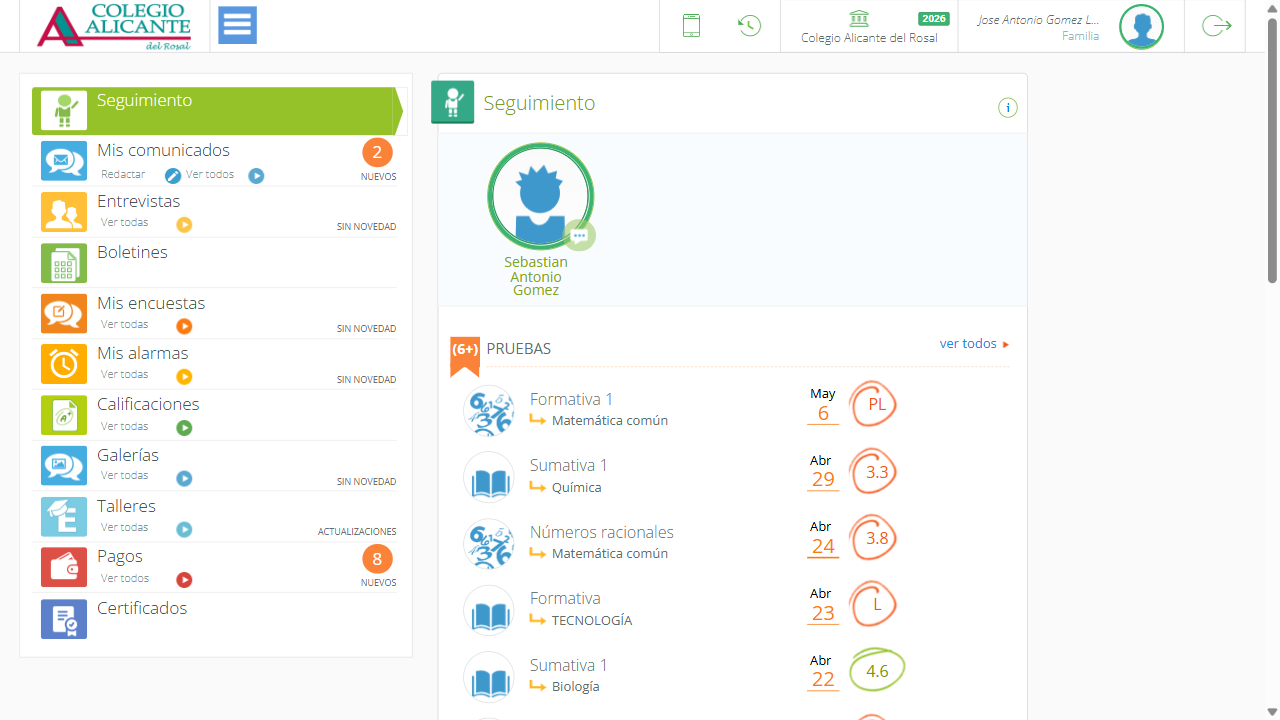
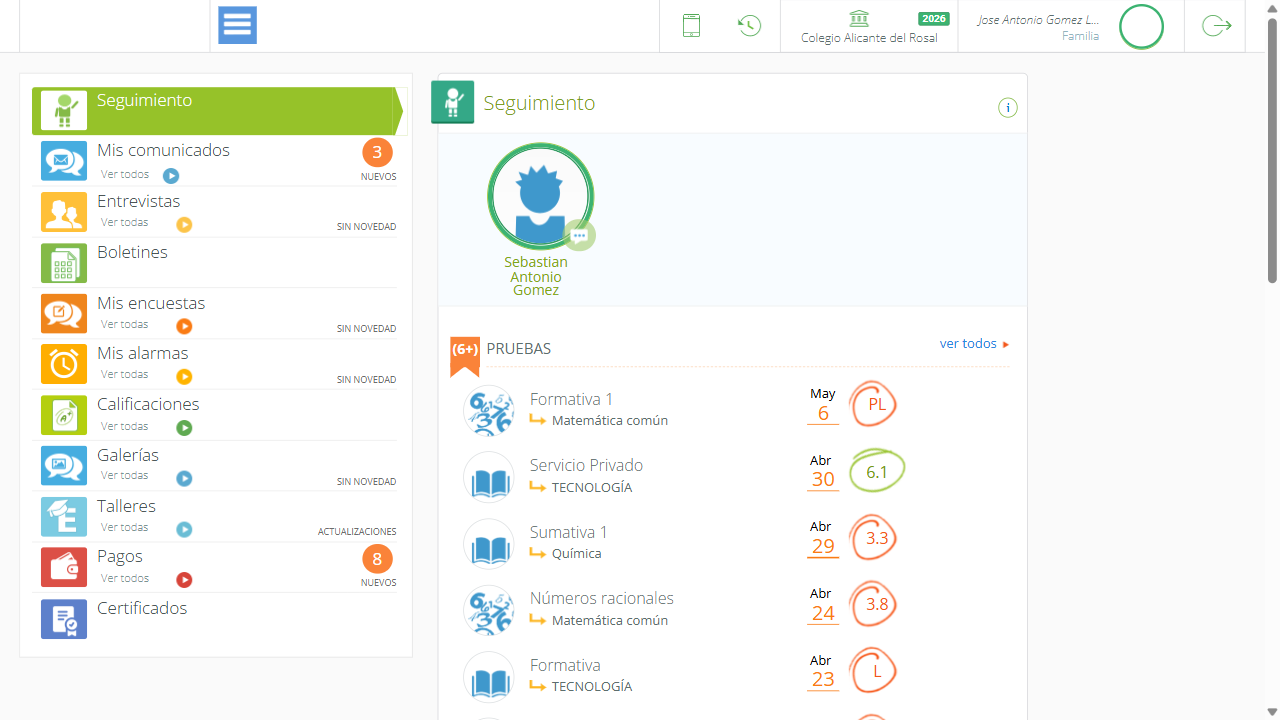
se agrega contador de notas rojas solo numeros

diff --git a/report.html b/report.html
@@ -328,7 +328,7 @@ div.media {
   </head>
   <body>
     <h1 id="title">report.html</h1>
-    <p>Report generated on 06-May-2026 at 13:03:34 by <a href="https://pypi.python.org/pypi/pytest-html">pytest-html</a>
+    <p>Report generated on 12-May-2026 at 23:47:03 by <a href="https://pypi.python.org/pypi/pytest-html">pytest-html</a>
         v4.2.0</p>
     <div id="environment-header">
       <h2>Environment</h2>
@@ -383,7 +383,7 @@ div.media {
         <h2>Summary</h2>
         <div class="additional-summary prefix">
         </div>
-        <p class="run-count">1 test took 00:00:04.</p>
+        <p class="run-count">1 test took 00:00:05.</p>
         <p class="filter">(Un)check the boxes to filter the results.</p>
         <div class="summary__reload">
           <div class="summary__reload__button hidden" onclick="location.reload()">
@@ -431,7 +431,7 @@ div.media {
       </thead>
     </table>
   <footer>
-    <div id="data-container" data-jsonblob="{&#34;environment&#34;: {&#34;Python&#34;: &#34;3.13.13&#34;, &#34;Platform&#34;: &#34;Windows-11-10.0.26200-SP0&#34;, &#34;Packages&#34;: {&#34;pytest&#34;: &#34;9.0.3&#34;, &#34;pluggy&#34;: &#34;1.6.0&#34;}, &#34;Plugins&#34;: {&#34;base-url&#34;: &#34;2.1.0&#34;, &#34;html&#34;: &#34;4.2.0&#34;, &#34;metadata&#34;: &#34;3.1.1&#34;, &#34;playwright&#34;: &#34;0.7.2&#34;}, &#34;JAVA_HOME&#34;: &#34;C:\\Program Files\\Eclipse Adoptium\\jdk-25.0.2.10-hotspot&#34;, &#34;Base URL&#34;: &#34;&#34;}, &#34;tests&#34;: {&#34;tests/test_login.py::test_login_exitoso[chromium]&#34;: [{&#34;extras&#34;: [], &#34;result&#34;: &#34;Passed&#34;, &#34;testId&#34;: &#34;tests/test_login.py::test_login_exitoso[chromium]&#34;, &#34;duration&#34;: &#34;00:00:04&#34;, &#34;resultsTableRow&#34;: [&#34;&lt;td class=\&#34;col-result\&#34;&gt;Passed&lt;/td&gt;&#34;, &#34;&lt;td class=\&#34;col-testId\&#34;&gt;tests/test_login.py::test_login_exitoso[chromium]&lt;/td&gt;&#34;, &#34;&lt;td class=\&#34;col-duration\&#34;&gt;00:00:04&lt;/td&gt;&#34;, &#34;&lt;td class=\&#34;col-links\&#34;&gt;&lt;/td&gt;&#34;], &#34;log&#34;: &#34;No log output captured.&#34;}]}, &#34;renderCollapsed&#34;: [&#34;passed&#34;], &#34;initialSort&#34;: &#34;result&#34;, &#34;title&#34;: &#34;report.html&#34;}"></div>
+    <div id="data-container" data-jsonblob="{&#34;environment&#34;: {&#34;Python&#34;: &#34;3.13.13&#34;, &#34;Platform&#34;: &#34;Windows-11-10.0.26200-SP0&#34;, &#34;Packages&#34;: {&#34;pytest&#34;: &#34;9.0.3&#34;, &#34;pluggy&#34;: &#34;1.6.0&#34;}, &#34;Plugins&#34;: {&#34;anyio&#34;: &#34;4.13.0&#34;, &#34;base-url&#34;: &#34;2.1.0&#34;, &#34;html&#34;: &#34;4.2.0&#34;, &#34;metadata&#34;: &#34;3.1.1&#34;, &#34;playwright&#34;: &#34;0.7.2&#34;}, &#34;JAVA_HOME&#34;: &#34;C:\\Program Files\\Eclipse Adoptium\\jdk-25.0.2.10-hotspot&#34;, &#34;Base URL&#34;: &#34;&#34;}, &#34;tests&#34;: {&#34;tests/test_login.py::test_login_exitoso[chromium]&#34;: [{&#34;extras&#34;: [], &#34;result&#34;: &#34;Passed&#34;, &#34;testId&#34;: &#34;tests/test_login.py::test_login_exitoso[chromium]&#34;, &#34;duration&#34;: &#34;00:00:05&#34;, &#34;resultsTableRow&#34;: [&#34;&lt;td class=\&#34;col-result\&#34;&gt;Passed&lt;/td&gt;&#34;, &#34;&lt;td class=\&#34;col-testId\&#34;&gt;tests/test_login.py::test_login_exitoso[chromium]&lt;/td&gt;&#34;, &#34;&lt;td class=\&#34;col-duration\&#34;&gt;00:00:05&lt;/td&gt;&#34;, &#34;&lt;td class=\&#34;col-links\&#34;&gt;&lt;/td&gt;&#34;], &#34;log&#34;: &#34;No log output captured.&#34;}]}, &#34;renderCollapsed&#34;: [&#34;passed&#34;], &#34;initialSort&#34;: &#34;result&#34;, &#34;title&#34;: &#34;report.html&#34;}"></div>
     <script>
       (function(){function r(e,n,t){function o(i,f){if(!n[i]){if(!e[i]){var c="function"==typeof require&&require;if(!f&&c)return c(i,!0);if(u)return u(i,!0);var a=new Error("Cannot find module '"+i+"'");throw a.code="MODULE_NOT_FOUND",a}var p=n[i]={exports:{}};e[i][0].call(p.exports,function(r){var n=e[i][1][r];return o(n||r)},p,p.exports,r,e,n,t)}return n[i].exports}for(var u="function"==typeof require&&require,i=0;i<t.length;i++)o(t[i]);return o}return r})()({1:[function(require,module,exports){
 const { getCollapsedCategory, setCollapsedIds } = require('./storage.js')

diff --git a/utils/ai_helper.py b/utils/ai_helper.py
@@ -1,0 +1,34 @@
+import os
+from openai import OpenAI
+
+
+def get_client():
+    return OpenAI(api_key=os.getenv("OPENAI_API_KEY"))
+
+
+def analizar_error(error, contexto=""):
+    try:
+        client = get_client()
+
+        prompt = f"""
+        Eres un experto en testing automatizado con Playwright.
+
+        Error:
+        {error}
+
+        Contexto:
+        {contexto}
+
+        Explica en pocas palabras la posible causa del error y una sugerencia.
+        """
+
+        response = client.chat.completions.create(
+            model="gpt-4o-mini",
+            messages=[{"role": "user", "content": prompt}],
+            max_tokens=150
+        )
+
+        return response.choices[0].message.content
+
+    except Exception as e:
+        return f"Error IA: {str(e)}"

diff --git a/conftest.py b/conftest.py
@@ -1,4 +1,5 @@
 import pytest
+from utils.ai_helper import analizar_error  # 👈 nuevo
 
 @pytest.fixture(scope="function")
 def context_options():
@@ -13,5 +14,15 @@ def pytest_runtest_makereport(item, call):
 
     if rep.when == "call" and rep.failed:
         page = item.funcargs.get("page", None)
+
+        # 📸 Screenshot (lo que ya tenías)
         if page:
             page.screenshot(path=f"screenshots/{item.name}.png")
+
+        # 🤖 IA - análisis del error
+        error_msg = str(rep.longrepr)
+        analisis = analizar_error(error_msg)
+
+        print("\n🤖 ===== ANÁLISIS IA =====")
+        print(analisis)
+        print("🤖 =======================\n")

diff --git a/pages/login_page.py b/pages/login_page.py
@@ -1,4 +1,5 @@
 from utils.funciones import Funciones
+import re
 
 class LoginPage:
 
@@ -33,7 +34,12 @@ class LoginPage:
         self.funciones.click(self.menu_pruebas())
 
     def notas_aprobadas(self):
-        return self.page.locator("em.nota_seguimiento.aprobado")
+        return self.page.locator("em.nota_seguimiento.suspenso")
+
 
     def contar_notas_aprobadas(self):
-        return self.notas_aprobadas().count()
+
+        elementos = self.page.locator(".nota_seguimiento.suspenso")
+        textos = elementos.all_inner_texts()
+        numeros = [t for t in textos if re.match(r'^\d+(\.\d+)?$', t.strip())]
+        return len(numeros)
